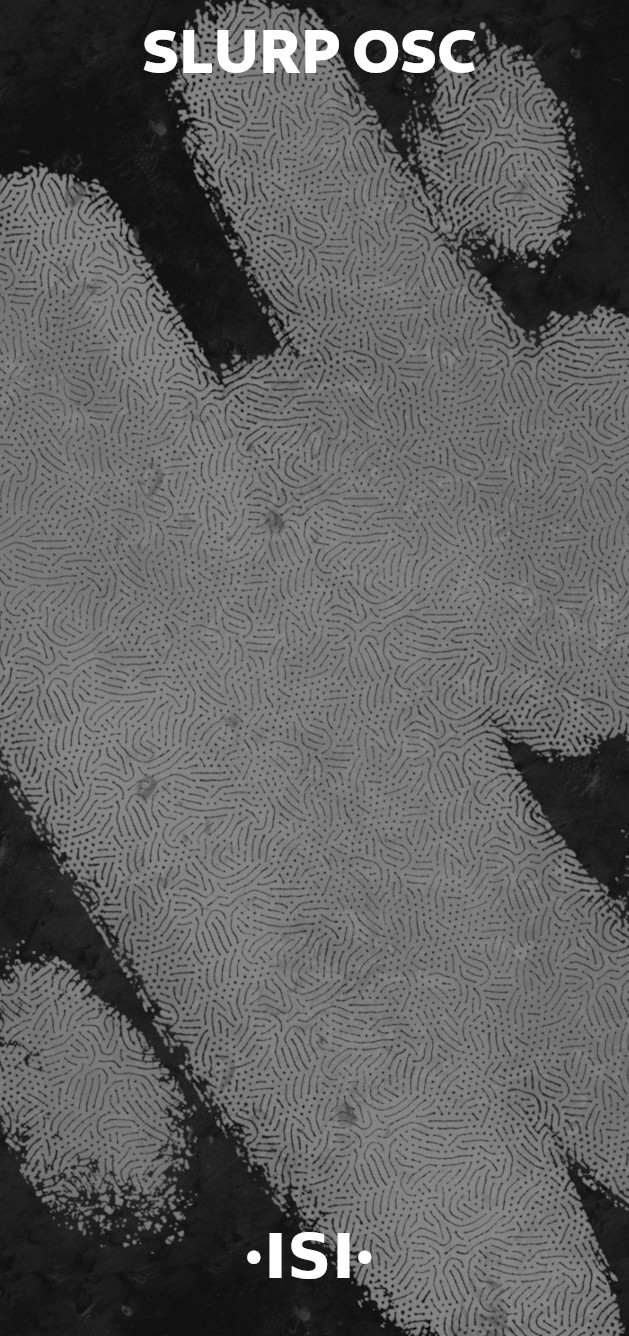
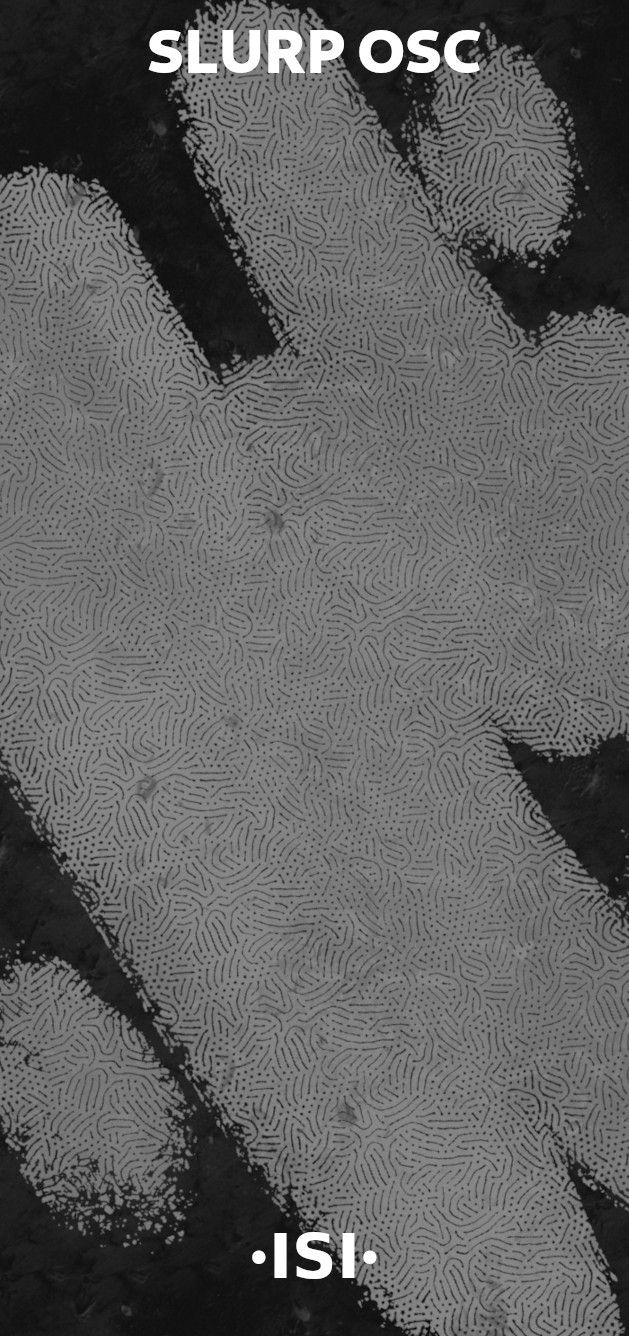
visual changes, fixed offsets, added fade effect

Changed region(s): [[0.2114, 0.0, 0.7552, 0.0614], [0.3927, 0.9207, 0.6041, 0.9513]]

diff --git a/src/quatosc.cpp b/src/quatosc.cpp
@@ -438,6 +438,7 @@ struct QuatDisplay : Widget {
 
 struct QuatOSCWidget : ModuleWidget {
 	ImagePanel *backdrop;
+	ImagePanel *fade;
 	QuatDisplay *display;
 
 	QuatOSCWidget(QuatOSC* module) {
@@ -447,16 +448,26 @@ struct QuatOSCWidget : ModuleWidget {
 		backdrop = new ImagePanel();
 		backdrop->box.size = Vec(MODULE_SIZE * RACK_GRID_WIDTH, RACK_GRID_HEIGHT);
 		backdrop->imagePath = asset::plugin(pluginInstance, "res/quatosc.jpg");
-		backdrop->scalar = 3.5;
+		backdrop->scalar = 3.49;
 		backdrop->visible = true;
 
 		display = new QuatDisplay();
 		display->box.pos = Vec(2, 40);
         display->box.size = Vec(((MODULE_SIZE -1) * RACK_GRID_WIDTH) + 10, 125);
 		display->module = module;
+
+		fade = new ImagePanel();
+		fade->box.pos = Vec(6, 20);
+		fade->box.size = Vec(((MODULE_SIZE -1) * RACK_GRID_WIDTH) + 10, ((MODULE_SIZE -1) * RACK_GRID_WIDTH) + 10);
+		fade->imagePath = asset::plugin(pluginInstance, "res/circleFade.png");
+		fade->borderColor = nvgRGBA(0,0,0,0);
+		fade->scalar = 3;
+		fade->opacity = 0.1;
+		fade->visible = true;
 		
 		setPanel(backdrop);
 		addChild(display);
+		addChild(fade);
 
 		addChild(createWidget<ScrewSilver>(Vec(RACK_GRID_WIDTH, 0)));
 		addChild(createWidget<ScrewSilver>(Vec(box.size.x - 2 * RACK_GRID_WIDTH, 0)));
@@ -469,7 +480,7 @@ struct QuatOSCWidget : ModuleWidget {
 
 		float hOff = 5.f;
 		float start = 8;
-		float next = 8.75;
+		float next = 9;
 
 		addParam(createParamCentered<RoundSmallBlackKnob>(mm2px(Vec(start, 60 + hOff)), module, QuatOSC::X_POS_I_PARAM));
 		addParam(createParamCentered<RoundSmallBlackKnob>(mm2px(Vec(start + (next*2), 60+ hOff)), module, QuatOSC::Y_POS_I_PARAM));

diff --git a/src/imagepanel.cpp b/src/imagepanel.cpp
@@ -2,6 +2,8 @@
 
 struct ImagePanel : TransparentWidget {
   float scalar = 1.0;
+  NVGcolor borderColor = componentlibrary::SCHEME_LIGHT_GRAY;
+  float opacity = 1.f;
   bool glows = false;
   std::string imagePath;
 	void draw(const DrawArgs &args) override {
@@ -11,15 +13,17 @@ struct ImagePanel : TransparentWidget {
 
 	  // Background image
 	  	if (backgroundImage) {
+			nvgSave(args.vg);
+			nvgGlobalAlpha(args.vg, opacity);
 			int width, height;
 			nvgImageSize(args.vg, backgroundImage->handle, &width, &height);
 			NVGpaint paint = nvgImagePattern(args.vg, 0.0, 0.0, width/scalar, height/scalar, 0.0, backgroundImage->handle, 1.0);
 			nvgFillPaint(args.vg, paint);
 			nvgFill(args.vg);
+			nvgRestore(args.vg);
 		}
 
 	  // Border
-	  NVGcolor borderColor = componentlibrary::SCHEME_LIGHT_GRAY; //nvgRGBAf(0.5, 0.5, 0.5, 0.5);
 	  nvgBeginPath(args.vg);
 	  nvgRect(args.vg, 0.5, 0.5, box.size.x - 1.0, box.size.y - 1.0);
 	  nvgStrokeColor(args.vg, borderColor);
